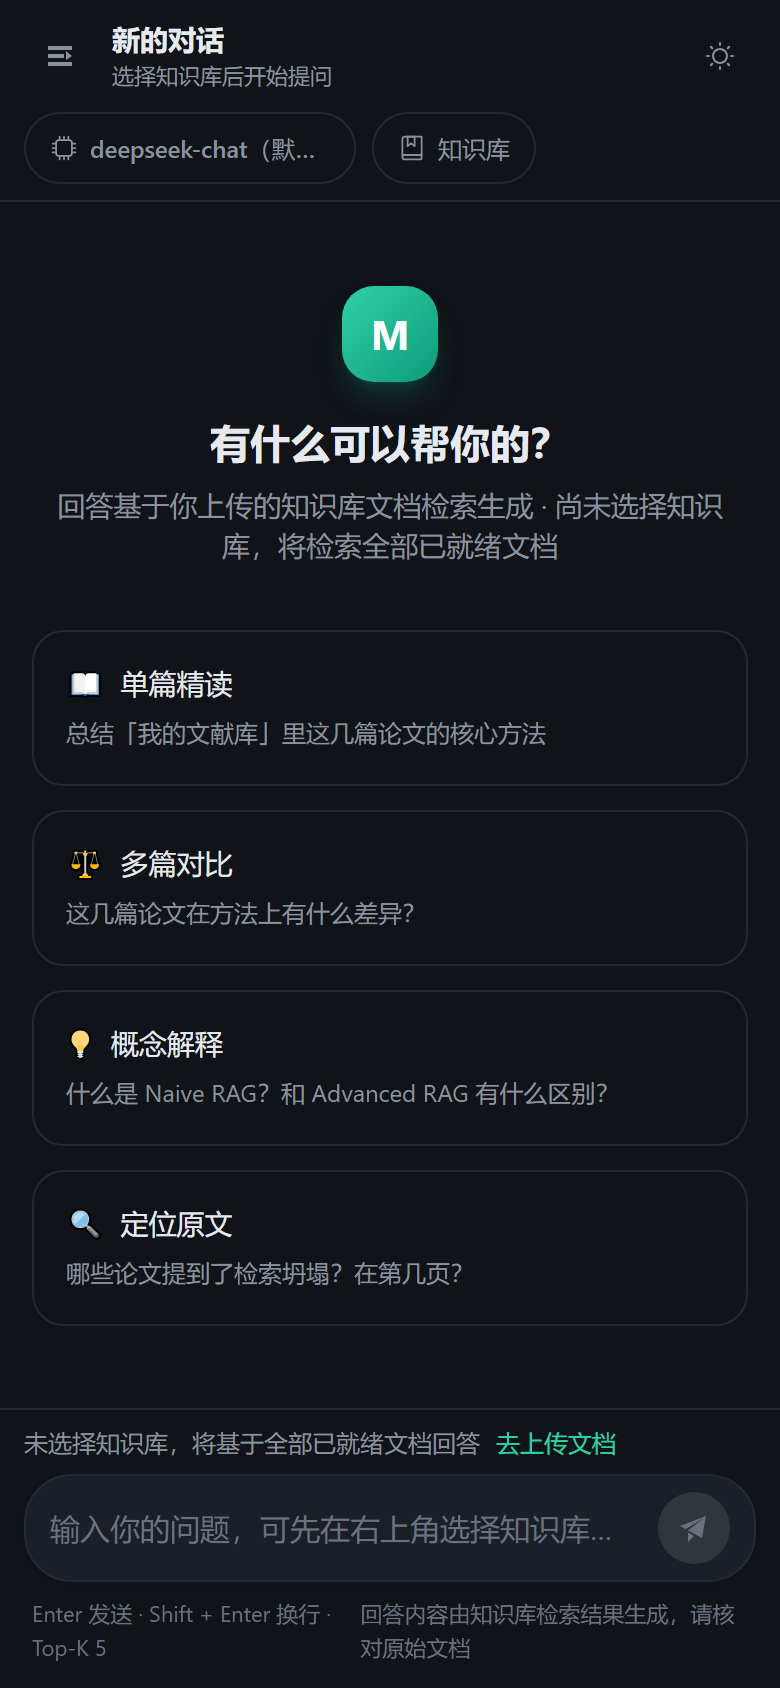
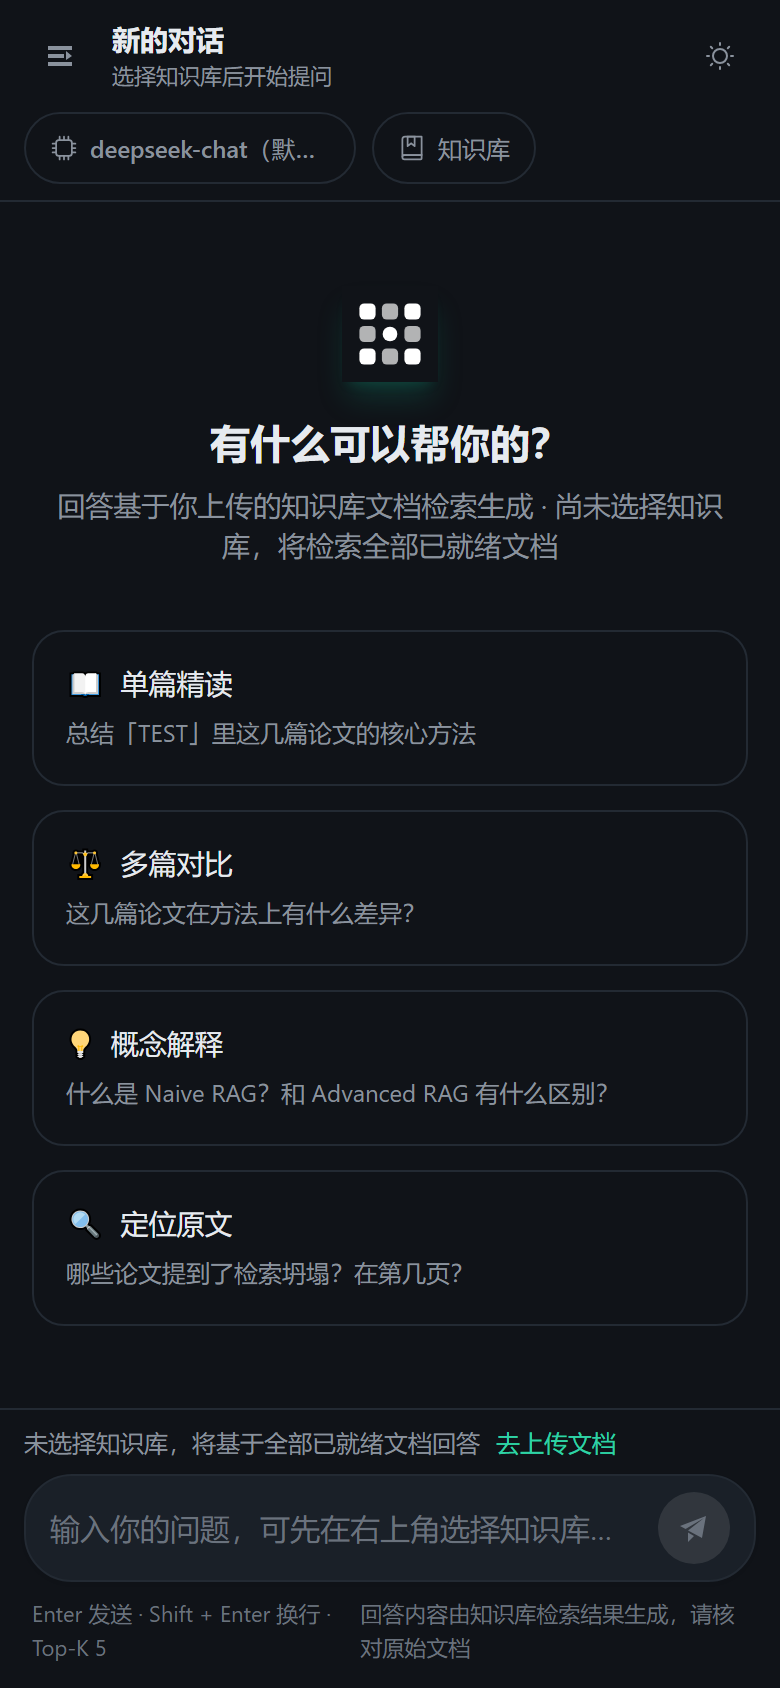
feat(brand): 换掉「字母 M」图标，改成矩阵格徽标
原来的图标就是一个字母 `M` 压在绿色方块上，太敷衍；站内还有 6 处同样的
字母方块（侧边栏 / 首页导航 / 演示对话 / 聊天空态 / 页脚 / 助手头像）。

## 新徽标：3×3 矩阵格 + 中心圆点

- 九个圆角格子交错明暗，**中心一格是实心圆点**（表示「从矩阵里定位到答案」）
- 与「苍穹矩阵」名字直接对应，且 32px 下仍能看清格子结构
- 品牌绿斜向渐变底（`#3ecf9a → #128464`），白色图形

## 一处设计、三处使用

| 用途 | 产物 |
| --- | --- |
| PWA / 桌面图标 | `icon-192.png` / `icon-512.png` / `icon-maskable-512.png` |
| iOS 主屏 | `apple-touch-icon.png`（180） |
| 浏览器标签 | `favicon.svg`（矢量）+ `favicon-32.png` |
| 站内 logo | 新增 `components/brand/BrandMark.vue`（内联 SVG，同一套几何参数） |

`BrandMark.vue` 与 PNG/SVG 用相同的 `unit=5.4 / gap=2.1 / radius=7.2` 参数，
所以桌面图标和站内 logo 是**同一个图形**，不会出现「图标一套、页面另一套」。

替换的 6 处字母方块：侧边栏、首页导航、首页演示对话头像、聊天空态、页脚、
助手消息头像。

## maskable 说明

`icon-maskable-512.png` 的内容区缩到 62% 并留安全边距，
Android 把它裁成圆形/圆角时不会切到格子。

## 验证

```
npm run build  通过
32px 预览：格子清晰可辨
首页截图：导航与演示头像均为新徽标
```

Changed region(s): [[0.1846, 0.4313, 0.7077, 0.4621], [0.4308, 0.154, 0.5846, 0.2464]]

diff --git a/client/src/components/brand/BrandMark.vue b/client/src/components/brand/BrandMark.vue
@@ -1,0 +1,75 @@
+<script setup>
+/**
+ * 品牌标记：3×3 矩阵格 + 中心圆点。
+ *
+ * 和 PWA 图标（public/icon-*.png、favicon.svg）用同一套几何参数，
+ * 保证「桌面图标 / 浏览器标签 / 站内 logo」是同一个图形，
+ * 而不是站内一个字母方块、图标又是一个东西。
+ */
+import { computed } from 'vue'
+
+const props = defineProps({
+  size: { type: Number, default: 28 },
+  /** 圆角比例，和图标保持 0.225 一致 */
+  radius: { type: Number, default: 7.2 },
+})
+
+const UNIT = 5.4
+const GAP = 2.1
+const TOTAL = UNIT * 3 + GAP * 2
+const LEFT = (32 - TOTAL) / 2
+
+const cells = computed(() => {
+  const list = []
+  for (let row = 0; row < 3; row += 1) {
+    for (let col = 0; col < 3; col += 1) {
+      list.push({
+        key: `${row}-${col}`,
+        x: LEFT + col * (UNIT + GAP),
+        y: LEFT + row * (UNIT + GAP),
+        center: row === 1 && col === 1,
+        opacity: (row + col) % 2 === 0 ? 1 : 0.68,
+      })
+    }
+  }
+  return list
+})
+</script>
+
+<template>
+  <svg
+    :width="size"
+    :height="size"
+    viewBox="0 0 32 32"
+    role="img"
+    aria-label="苍穹矩阵"
+    class="shrink-0"
+  >
+    <defs>
+      <linearGradient id="brand-mark-grad" x1="0" y1="0" x2="1" y2="1">
+        <stop offset="0" stop-color="#3ecf9a" />
+        <stop offset="1" stop-color="#128464" />
+      </linearGradient>
+    </defs>
+    <rect width="32" height="32" :rx="radius" fill="url(#brand-mark-grad)" />
+    <template v-for="cell in cells" :key="cell.key">
+      <circle
+        v-if="cell.center"
+        :cx="cell.x + UNIT / 2"
+        :cy="cell.y + UNIT / 2"
+        :r="UNIT / 2 - 0.25"
+        fill="#fff"
+      />
+      <rect
+        v-else
+        :x="cell.x"
+        :y="cell.y"
+        :width="UNIT"
+        :height="UNIT"
+        :rx="UNIT * 0.3"
+        fill="#fff"
+        :fill-opacity="cell.opacity"
+      />
+    </template>
+  </svg>
+</template>

diff --git a/client/src/views/HomeView.vue b/client/src/views/HomeView.vue
@@ -30,6 +30,7 @@ import { useReveal } from '@/composables/useReveal'
 import { useTheme } from '@/composables/useTheme'
 import { useUserStore } from '@/stores/user'
 import { APP_TITLE, isMockMode } from '@/config'
+import BrandMark from '@/components/brand/BrandMark.vue'
 
 const router = useRouter()
 const userStore = useUserStore()
@@ -296,11 +297,7 @@ const faqs = [
     >
       <div class="mx-auto flex h-16 w-full max-w-6xl items-center gap-3 px-5 sm:px-8">
         <RouterLink :to="{ name: 'home' }" class="flex shrink-0 items-center gap-2.5">
-          <span
-            class="grid h-9 w-9 place-items-center rounded-xl bg-gradient-to-br from-brand-light to-brand text-sm font-bold text-white shadow-lg shadow-brand/25"
-          >
-            M
-          </span>
+          <BrandMark :size="36" :radius="8" class="drop-shadow" />
           <span class="hidden text-[15px] font-semibold tracking-tight app-text sm:block">
             {{ APP_TITLE }}
           </span>
@@ -511,11 +508,7 @@ const faqs = [
 
                 <!-- 回答 -->
                 <div class="flex gap-2.5">
-                  <span
-                    class="mt-0.5 grid h-7 w-7 shrink-0 place-items-center rounded-lg bg-gradient-to-br from-brand-light to-brand text-[11px] font-bold text-white"
-                  >
-                    M
-                  </span>
+                  <BrandMark :size="28" :radius="6" class="mt-0.5" />
                   <div class="min-w-0 flex-1">
                     <div class="rounded-2xl rounded-tl-md border app-border app-panel px-4 py-3">
                       <p class="text-[13px] leading-6 app-text-secondary">

diff --git a/client/src/components/chat/MessageList.vue b/client/src/components/chat/MessageList.vue
@@ -5,6 +5,7 @@ import { ArrowDown, Loading } from '@element-plus/icons-vue'
 import MessageItem from '@/components/chat/MessageItem.vue'
 import { useChatStore } from '@/stores/chat'
 import { useKnowledgeStore } from '@/stores/knowledge'
+import BrandMark from '@/components/brand/BrandMark.vue'
 
 const chatStore = useChatStore()
 const knowledgeStore = useKnowledgeStore()
@@ -93,11 +94,7 @@ function regenerate() {
         v-else-if="!messages.length"
         class="mx-auto flex min-h-full w-full max-w-3xl flex-col items-center justify-center px-4 py-10"
       >
-        <div
-          class="grid h-12 w-12 place-items-center rounded-2xl bg-gradient-to-br from-brand-light to-brand text-xl font-bold text-white shadow-lg shadow-brand/25"
-        >
-          M
-        </div>
+        <BrandMark :size="48" :radius="11" class="shadow-lg shadow-brand/25" />
         <h1 class="mt-4 text-center text-xl font-semibold app-text md:text-2xl">
           有什么可以帮你的？
         </h1>

diff --git a/client/src/components/landing/SiteFooter.vue b/client/src/components/landing/SiteFooter.vue
@@ -3,6 +3,7 @@ import { RouterLink } from 'vue-router'
 
 import { usePolicyDialog } from '@/composables/usePolicyDialog'
 import { APP_TITLE, COMPANY_NAME, ICP_LICENSE, SUPPORT_EMAIL, isMockMode } from '@/config'
+import BrandMark from '@/components/brand/BrandMark.vue'
 
 const { openPolicy } = usePolicyDialog()
 
@@ -23,11 +24,7 @@ const productLinks = [
         <!-- 品牌 -->
         <div>
           <div class="flex items-center gap-2.5">
-            <span
-              class="grid h-9 w-9 place-items-center rounded-xl bg-gradient-to-br from-brand-light to-brand text-sm font-bold text-white shadow-lg shadow-brand/25"
-            >
-              M
-            </span>
+            <BrandMark :size="36" :radius="8" />
             <span class="text-[15px] font-semibold app-text">{{ APP_TITLE }}</span>
           </div>
           <p class="mt-4 max-w-xs text-[13px] leading-6 app-muted">

diff --git a/client/src/components/layout/AppSidebar.vue b/client/src/components/layout/AppSidebar.vue
@@ -30,6 +30,7 @@ import { useTheme } from '@/composables/useTheme'
 import { groupByDate } from '@/utils/format'
 import { APP_TITLE, isMockMode } from '@/config'
 import { resetMockDb } from '@/api/mock'
+import BrandMark from '@/components/brand/BrandMark.vue'
 
 const emit = defineEmits(['navigate'])
 
@@ -154,11 +155,7 @@ async function handleCommand(command) {
         class="flex min-w-0 flex-1 items-center gap-2 rounded-lg px-2 py-1.5 text-left transition app-hover"
         @click="go('/app/chat')"
       >
-        <span
-          class="grid h-7 w-7 shrink-0 place-items-center rounded-lg bg-gradient-to-br from-brand-light to-brand text-[13px] font-bold text-white"
-        >
-          M
-        </span>
+        <BrandMark :size="28" :radius="6" />
         <span class="truncate text-sm font-semibold app-text">
           {{ APP_TITLE }}
         </span>

diff --git a/client/src/components/chat/MessageItem.vue b/client/src/components/chat/MessageItem.vue
@@ -7,6 +7,7 @@ import { CopyDocument, Files, Refresh, WarningFilled } from '@element-plus/icons
 import { renderMarkdown } from '@/utils/markdown'
 import { copyText } from '@/utils/clipboard'
 import { formatScore } from '@/utils/format'
+import BrandMark from '@/components/brand/BrandMark.vue'
 
 const router = useRouter()
 
@@ -118,12 +119,7 @@ async function handleContentClick(event) {
         >
           我
         </span>
-        <span
-          v-else
-          class="grid h-7 w-7 place-items-center rounded-full bg-gradient-to-br from-brand-light to-brand text-xs font-bold text-white"
-        >
-          R
-        </span>
+        <BrandMark v-else :size="28" :radius="8" />
       </div>
 
       <!-- 内容 -->

diff --git a/client/index.html b/client/index.html
@@ -3,6 +3,7 @@
   <head>
     <meta charset="UTF-8" />
     <link rel="icon" type="image/svg+xml" href="/favicon.svg" />
+    <link rel="icon" type="image/png" sizes="32x32" href="/favicon-32.png" />
     <link rel="icon" type="image/png" sizes="192x192" href="/icon-192.png" />
     <link rel="apple-touch-icon" href="/apple-touch-icon.png" />
     <link rel="manifest" href="/manifest.webmanifest" />
